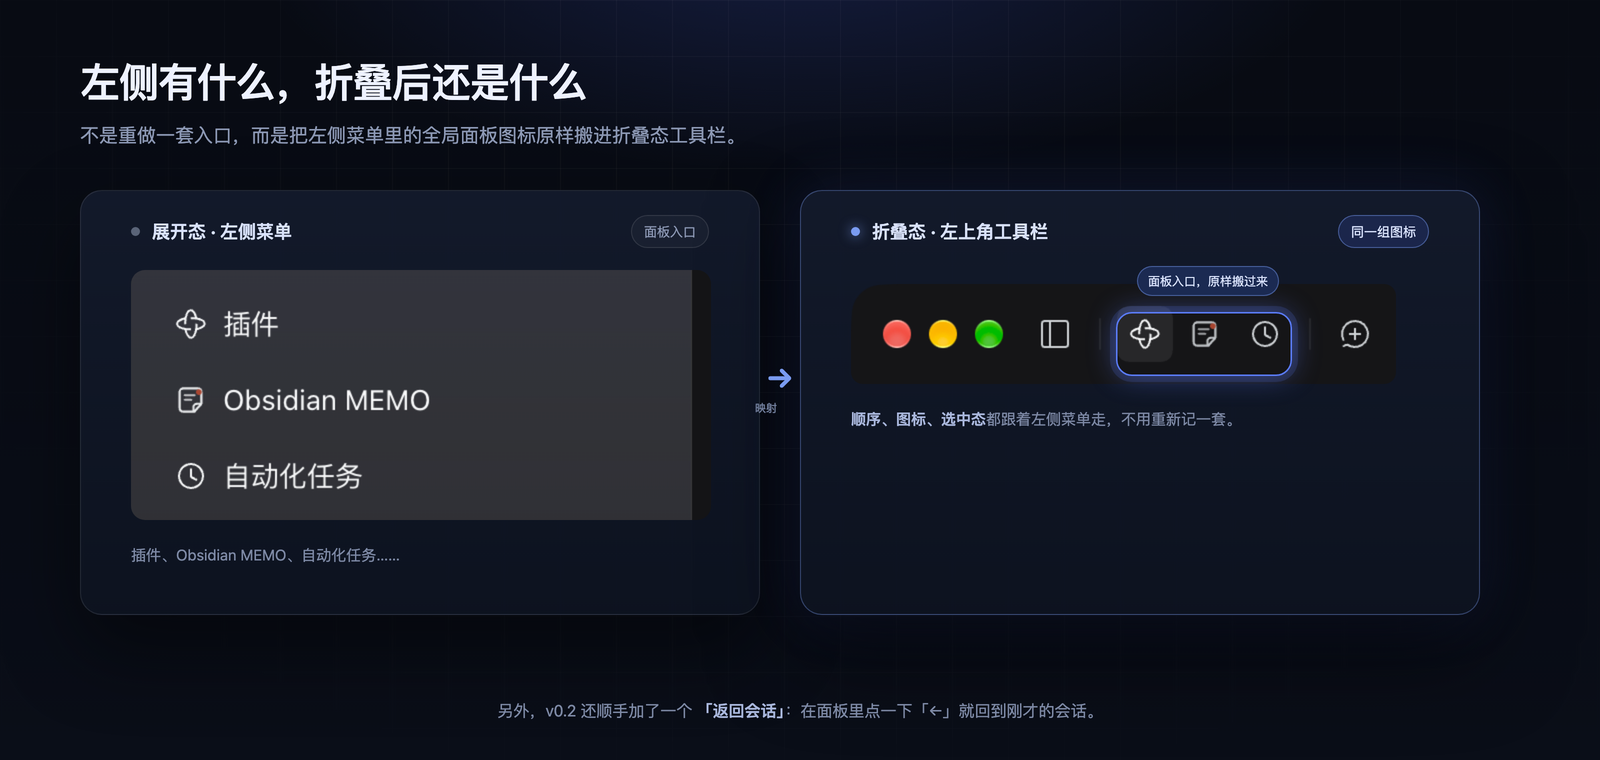
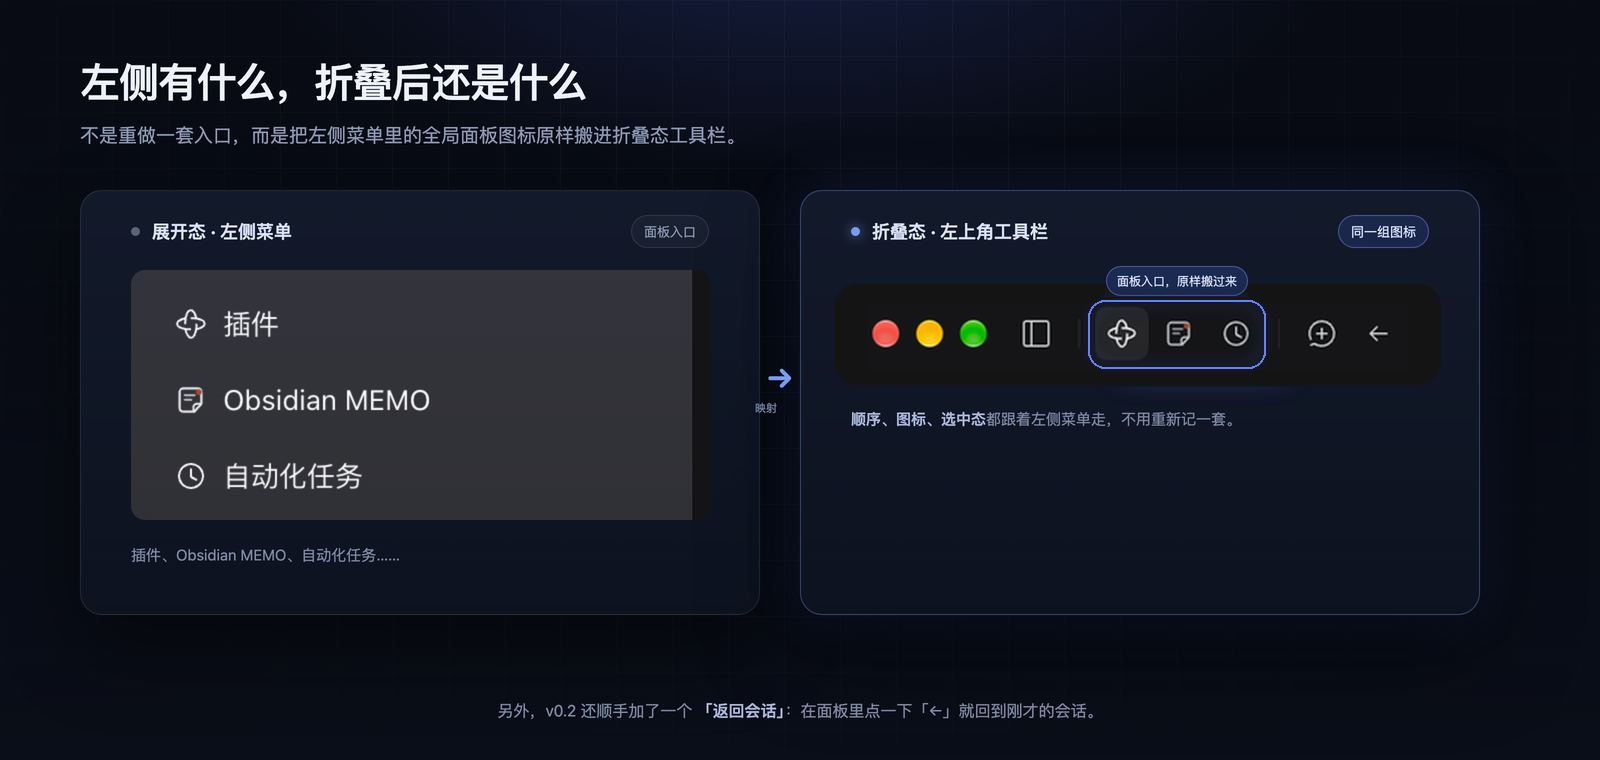
docs: simplify README and align toolbar illustrations

Changed region(s): [[0.5312, 0.3329, 0.875, 0.5145]]

diff --git a/README.md b/README.md
@@ -1,151 +1,77 @@
-<p align="center">
-  <img src="assets/banner.png" alt="dsh-fold-minimal：侧栏可以折叠，面板入口不必消失" width="100%">
-</p>
+![dsh-fold-minimal：侧栏可以折叠，面板入口不必消失](assets/banner.png)
 
-<p align="center">
-  <img src="assets/badge-version.svg" alt="v0.2.0" height="24">
-  <img src="assets/badge-platform.svg" alt="macOS Desktop" height="24">
-  <img src="assets/badge-license.svg" alt="MIT" height="24">
-</p>
+折叠 DSH 左侧栏后，插件、自动化任务等面板图标依然显示在左上角，点击即可打开。
 
-<p align="center">
-  <b>侧栏可以折叠，面板入口不必消失。</b><br>
-  <sub>把左侧菜单里的全局面板图标原样搬进折叠态工具栏。同一个图标、同一个顺序、同一个选中态。</sub>
-</p>
+## 亮点
 
----
+![展开态的左侧面板图标，在折叠后显示为左上角的一行工具栏；右侧为新建会话和返回会话按钮](assets/mapping.png)
 
-## 它真正解决的问题
-
-DSH 折叠左侧栏后，左上角只剩「展开」和「新建会话」。插件、自动化任务、Obsidian MEMO 这些全局面板入口，全都留在展开态。
-
-想用面板，得先展开；切回会话，又得再展开。两步不多，但足够打断一次心流。
-
-**dsh-fold-minimal 把左侧菜单里的全局面板图标直接搬进折叠态工具栏。**
-
-不是重做一套入口，而是同一个图标、同一个顺序、同一个选中态。折叠侧栏之后，你依然可以一键切面板。
-
-<p align="center">
-  <img src="assets/mapping.png" alt="展开态左侧菜单与折叠态工具栏的图标映射" width="100%">
-</p>
-
-<p align="center">
-  <sub>左侧有什么，折叠后还是什么。</sub>
-</p>
-
-## 真实界面
-
-<p align="center">
-  <img src="assets/hero.png" alt="折叠侧栏 + Plugins 面板中的真实界面" width="100%">
-</p>
-
-<p align="center">
-  <sub>折叠侧栏 + Plugins 面板。左上角工具栏里是左侧菜单的面板图标；最右边的小箭头，是 v0.2 顺手加的「返回会话」。</sub>
-</p>
-
-## 轻量，不打扰
-
-它不试图替代 DSH 的侧栏，也不重排你的工作区。折叠时，它只是把左侧那一列面板入口，换成左上角的一行图标。
-
-- 不新增侧栏、不新增设置页、不新增快捷键。
-- 只在 macOS 桌面折叠态出现；展开态保持 DSH 原样。
-- 只多一行图标；当前面板的选中态跟着左侧菜单走。
-- 停用 / 卸载立刻回退官方按钮，不需要重启。
-
-## 顺手的小心思：返回会话
-
-v0.2 在全局面板里加了一个小按钮：**新建会话**右侧出现 **←**，点一下回到刚才的会话；回到会话后它自动隐藏。
-
-它不是这个插件的重点。只是既然「切面板」已经变简单了，就把「从面板回会话」也少一步。
-
-<p align="center">
-  <img src="assets/states.png" alt="在会话中返回按钮隐藏；在全局面板中返回按钮出现" width="100%">
-</p>
-
-<p align="center">
-  <sub>同一根工具栏，两种状态。返回按钮只在全局面板中出现。</sub>
-</p>
-
-## 功能一览
-
-| | |
-|---|---|
-| 🧩 **面板入口一个不少** | 插件、自动化任务、Obsidian MEMO……新装的左侧面板会自动出现在折叠态工具栏。 |
-| ↕ **顺序就是左侧顺序** | 与展开态左侧主菜单完全一致。 |
-| 🔵 **选中态同步** | 当前面板的图标会显示选中底色，点击即切面板。 |
-| 🪶 **轻量** | 只多一行图标，不改展开态，不改变 DSH 的任何默认行为。 |
+- **熟悉的入口**：沿用左侧面板的图标和顺序，当前面板自动高亮。
+- **一键返回会话**：在面板中点击「←」回到刚才的会话，回到会话后按钮自动隐藏。
+- **轻量接入**：没有额外运行时依赖；展开侧栏保持原样，停用即恢复原有工具栏。
 
 ## 安装
 
-**需要**：macOS 桌面版 DSH（左侧栏支持折叠）。
+1. 打开 **DSH → 插件 → 添加插件**，粘贴仓库地址：
 
-### 方式一：在 DSH 里直接安装（推荐）
+   ```text
+   https://github.com/cavenzhong/dsh-fold-minimal
+   ```
 
-1. 打开 **DSH → 插件 → 添加插件**。
-2. 粘贴下面任意一个地址：
+2. 安装完成后，点击 **立即启用**。
+3. 折叠左侧栏，即可使用左上角的面板入口。
 
-   - 仓库地址：`https://github.com/cavenzhong/dsh-fold-minimal`
-   - Release 包：`https://github.com/cavenzhong/dsh-fold-minimal/releases/download/v0.2.0/dsh-fold-minimal-0.2.0.tgz`
+<details>
+<summary>其他安装方式</summary>
 
-3. 安装完成后点 **立即启用**，折叠左侧栏即可看到效果。
-
-### 方式二：让 agent 安装
+也可以在「添加插件」中粘贴 v0.2.0 安装包地址：
 
 ```text
-plugin_manager install_bundle --target https://github.com/cavenzhong/dsh-fold-minimal/releases/download/v0.2.0/dsh-fold-minimal-0.2.0.tgz
+https://github.com/cavenzhong/dsh-fold-minimal/releases/download/v0.2.0/dsh-fold-minimal-0.2.0.tgz
 ```
 
-### 方式三：本地开发
+让 DSH 中的 agent 安装：
 
-```bash
-git clone https://github.com/cavenzhong/dsh-fold-minimal.git
+```text
+plugin_manager install_bundle --target https://github.com/cavenzhong/dsh-fold-minimal
 ```
 
-然后在 DSH 里让 agent 执行：
+</details>
+
+## 使用范围
+
+- 适用于支持侧栏折叠的 **macOS 桌面版 DSH**。
+- 显示所有已注册的左侧面板，包括未固定的面板；不包含「更多」菜单中的动作。
+- 面板较多或窗口很窄时，超出窗口的图标会被裁切，可展开侧栏访问。
+- 个别插件图标不兼容时，会显示备用图标。
+
+<details>
+<summary>实现与开发</summary>
+
+通过 DSH 现有插槽和布局接口提供工具栏，复用已注册的面板图标。客户端只使用宿主 React；Host 入口为空，无需构建。
+
+本地开发时，在 DSH 中安装仓库目录：
 
 ```text
 plugin_manager install_bundle --target link:/path/to/dsh-fold-minimal
 ```
 
-> 开发时改完 `client.js`，在插件页把本插件**停用再启用**一次即可加载新版本。
+修改 `client.js` 后，停用再启用插件即可加载。运行测试：
 
-## 使用
+```bash
+pnpm test
+```
 
-1. 折叠左侧栏。
-2. 左上角出现 **展开 │ 面板图标 │ 新建会话** 工具栏。
-3. 点任意面板图标，直接切换面板；当前面板的图标会高亮。
-4. 在全局面板里，**新建会话**右侧还会出现 **←**；点击回到刚才的会话。
-
-## 兼容与边界
-
-- 只影响 macOS 桌面的折叠态；展开态、Windows / Linux 的窄侧栏轨道保持原样。
-- 折叠态显示所有已注册的 `sidebar.panellist` 面板（包含未固定的条目）；「更多」菜单里的动作不在折叠态提供。
-- 返回目标是主区域保留的上一次工作会话（空白新会话草稿也算），不做「最近会话」排序。
-- 面板很多或窗口很窄时，工具栏不横向滚动，超出部分会被窗口裁掉。
-- 某个插件的图标不兼容时，会退化成兜底图标，不影响整条工具栏。
-
-## 更新记录
-
-### v0.2.0 · 2026-11-05
-
-- 新增「返回会话」小按钮：在全局面板中出现，点击回到上一次工作的会话；已在会话中时隐藏。
-- 提供 GitHub Release 的 `.tgz` 安装包，可直接在 DSH「添加插件」里粘贴安装。
-
-### v0.1.0 · 2026-11-04
-
-- 折叠态工具栏按左侧菜单顺序映射全局面板图标。
-- 选中态同步、标题让位、插件图标自动跟随。
-
-<details>
-<summary>技术细节 / 开发</summary>
-
-- 浏览器半只 require 平台基座里的 `react`，不 import 任何 DSH Client 包。
-- 面板图标读 `sidebar.panellist` 注册者，直接渲染插件自己的图标组件。
-- 「返回会话」调用布局层原生 `ctx.layout.selectPanel(null)`；主会话由 `uiWorkspace` 的 `mainView` 引用保留，不需要重新加载。
-- 完整实现说明与测试：[docs/TECHNICAL.md](docs/TECHNICAL.md)。
+完整说明见 [技术文档](docs/TECHNICAL.md)。
 
 </details>
 
-## License
+<details>
+<summary>更新记录</summary>
 
-MIT © cavenzhong
+- **v0.2.0 · 2026-11-05**：新增返回会话按钮，提供 Release 安装包。
+- **v0.1.0 · 2026-11-04**：折叠态显示左侧面板图标，支持顺序与选中态同步。
+
+</details>
+
+[MIT](LICENSE) © cavenzhong
